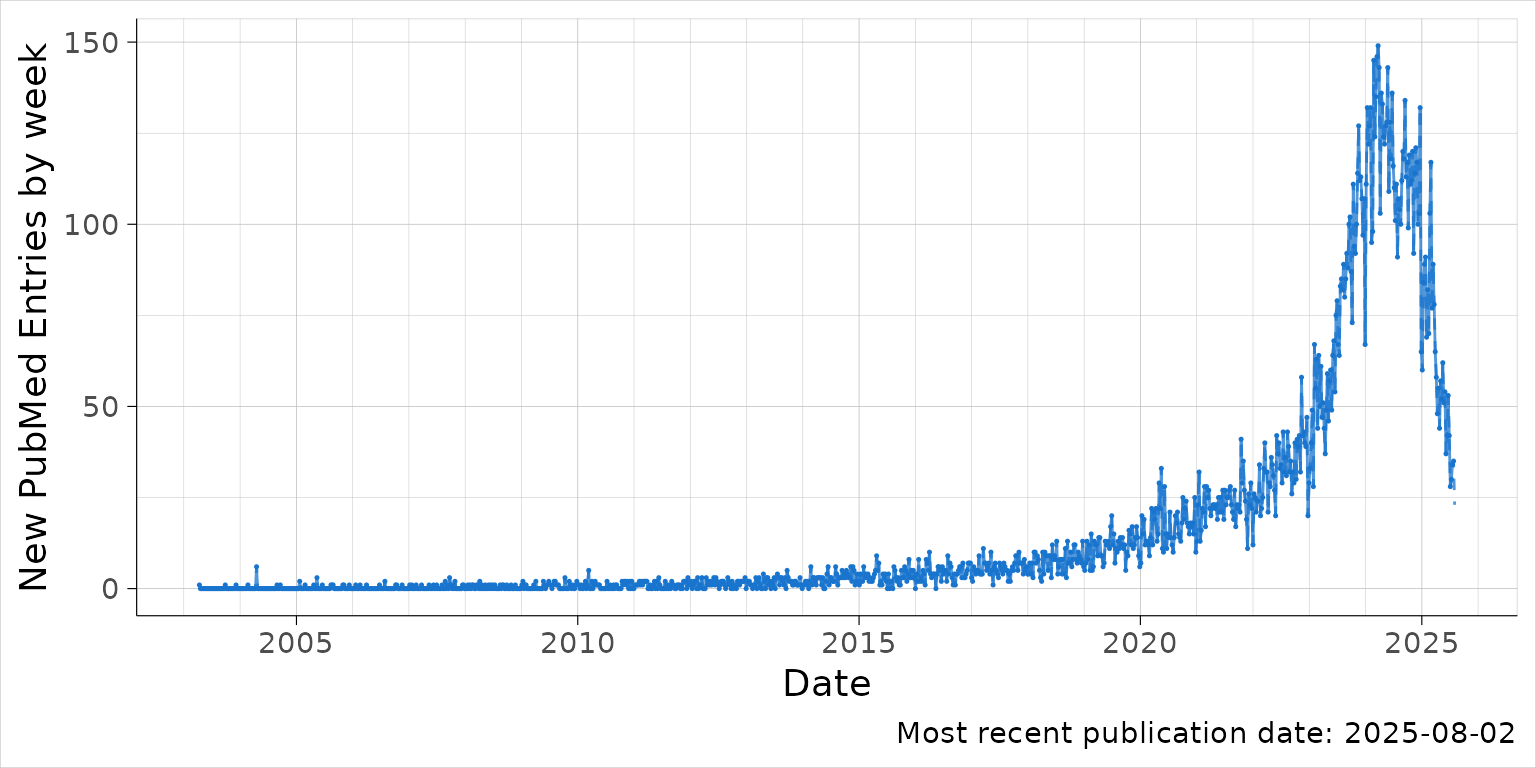
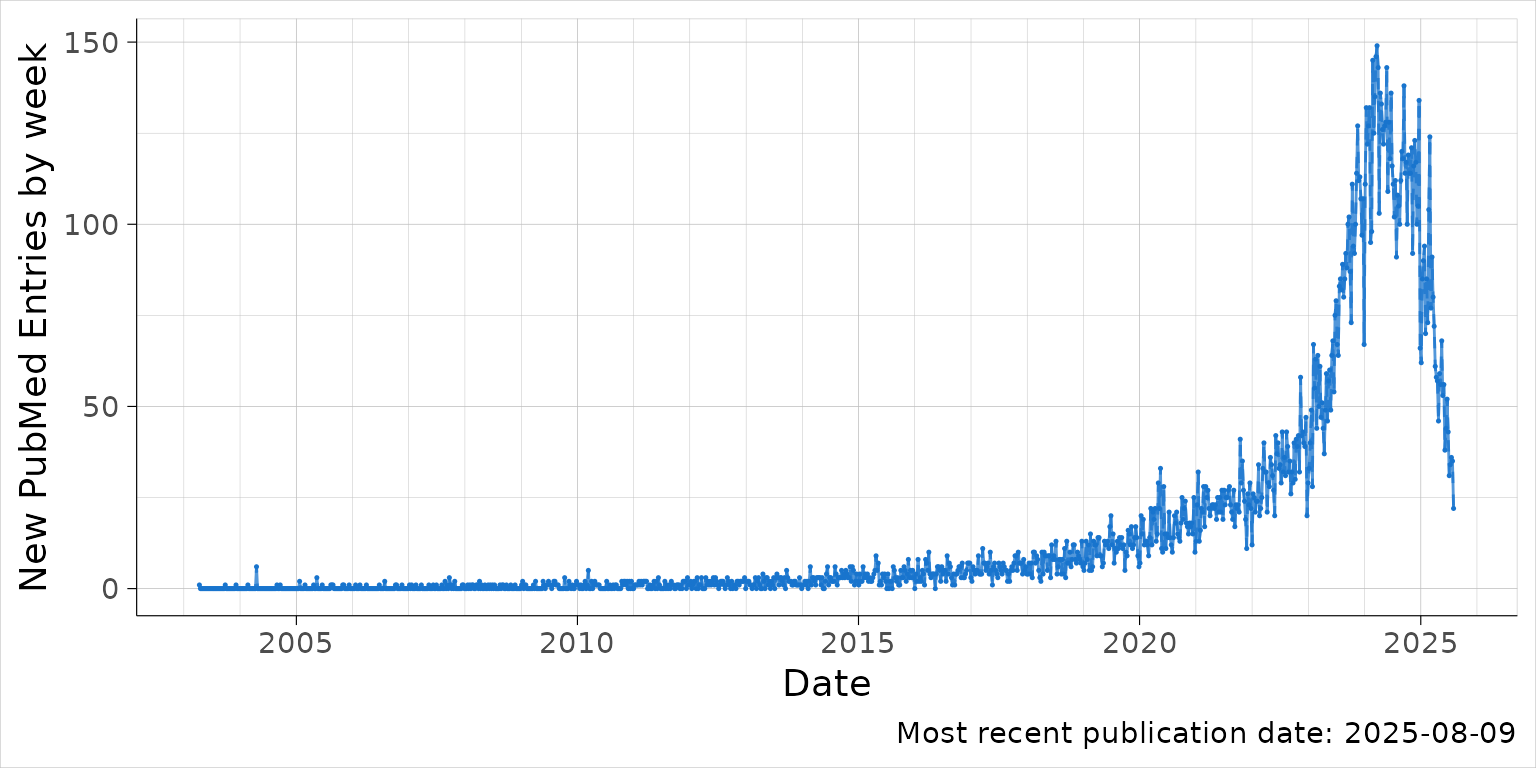
Deploying to gh-pages from @ explodecomputer/PubmedPlot@068eacdf5acdc66ea1c8a3d5640505ac4a8cb4ee 🚀

diff --git a/articles/mr.html b/articles/mr.html
@@ -183,7 +183,7 @@
 <span><span class="co">#&gt; Fetching records 2501 to 2979 </span></span>
 <span><span class="co">#&gt; Searching for year: 2024 </span></span>
 <span><span class="co">#&gt; Search term: "Mendelian randomisation" [tiab] OR "Mendelian randomization" [tiab] AND ("2024/01/01"[dp] : "2024/12/31"[dp]) </span></span>
-<span><span class="co">#&gt; Found 6434 articles matching the search term.</span></span>
+<span><span class="co">#&gt; Found 6435 articles matching the search term.</span></span>
 <span><span class="co">#&gt; Fetching records 1 to 500 </span></span>
 <span><span class="co">#&gt; Fetching records 501 to 1000 </span></span>
 <span><span class="co">#&gt; Fetching records 1001 to 1500 </span></span>
@@ -196,10 +196,10 @@
 <span><span class="co">#&gt; Fetching records 4501 to 5000 </span></span>
 <span><span class="co">#&gt; Fetching records 5001 to 5500 </span></span>
 <span><span class="co">#&gt; Fetching records 5501 to 6000 </span></span>
-<span><span class="co">#&gt; Fetching records 6001 to 6434 </span></span>
+<span><span class="co">#&gt; Fetching records 6001 to 6435 </span></span>
 <span><span class="co">#&gt; Searching for year: 2025 </span></span>
 <span><span class="co">#&gt; Search term: "Mendelian randomisation" [tiab] OR "Mendelian randomization" [tiab] AND ("2025/01/01"[dp] : "2025/12/31"[dp]) </span></span>
-<span><span class="co">#&gt; Found 4247 articles matching the search term.</span></span>
+<span><span class="co">#&gt; Found 4379 articles matching the search term.</span></span>
 <span><span class="co">#&gt; Fetching records 1 to 500 </span></span>
 <span><span class="co">#&gt; Fetching records 501 to 1000 </span></span>
 <span><span class="co">#&gt; Fetching records 1001 to 1500 </span></span>
@@ -208,7 +208,7 @@
 <span><span class="co">#&gt; Fetching records 2501 to 3000 </span></span>
 <span><span class="co">#&gt; Fetching records 3001 to 3500 </span></span>
 <span><span class="co">#&gt; Fetching records 3501 to 4000 </span></span>
-<span><span class="co">#&gt; Fetching records 4001 to 4247</span></span>
+<span><span class="co">#&gt; Fetching records 4001 to 4379</span></span>
 <span><span class="co"># write_json(a, "pubmed_abstracts.json", pretty=TRUE)</span></span>
 <span><span class="va">b</span> <span class="op">&lt;-</span> <span class="fu"><a href="../reference/group_by_time_interval.html">group_by_time_interval</a></span><span class="op">(</span><span class="va">a</span><span class="op">)</span></span>
 <span><span class="va">p</span> <span class="op">&lt;-</span> <span class="fu"><a href="../reference/plot_time_interval.html">plot_time_interval</a></span><span class="op">(</span><span class="va">b</span><span class="op">)</span></span></code></pre></div>
